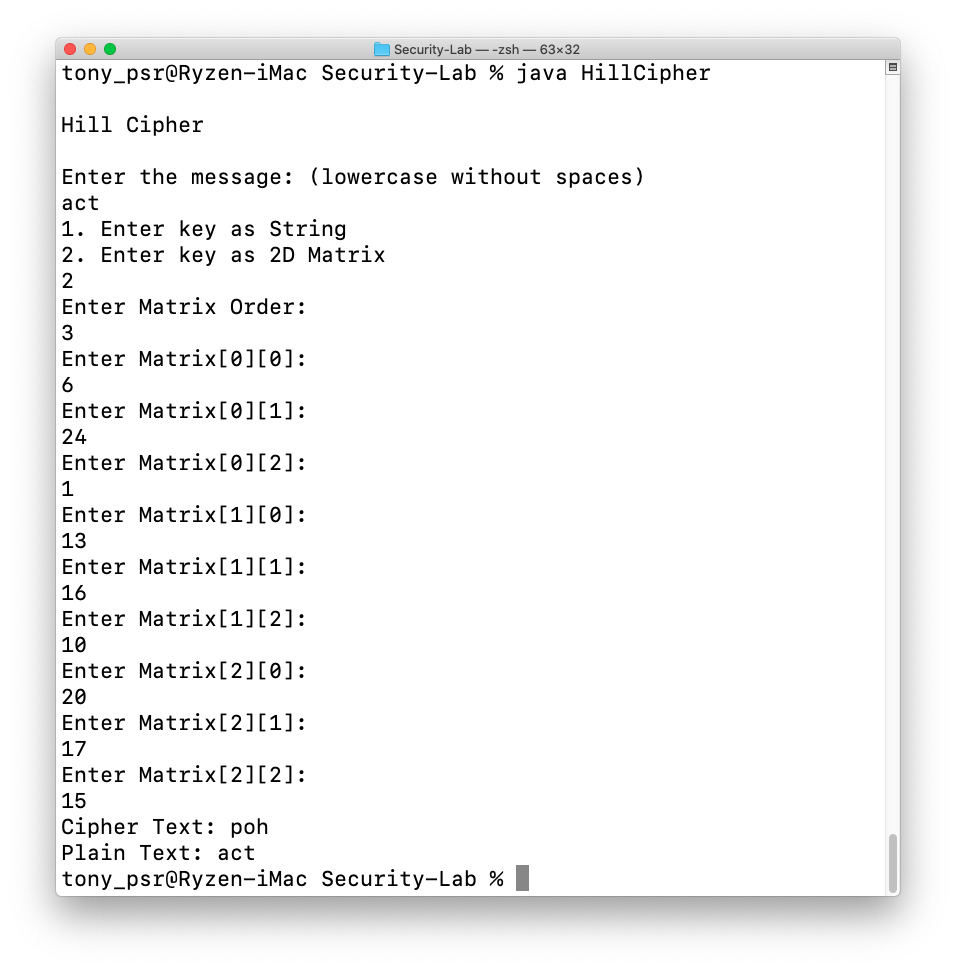
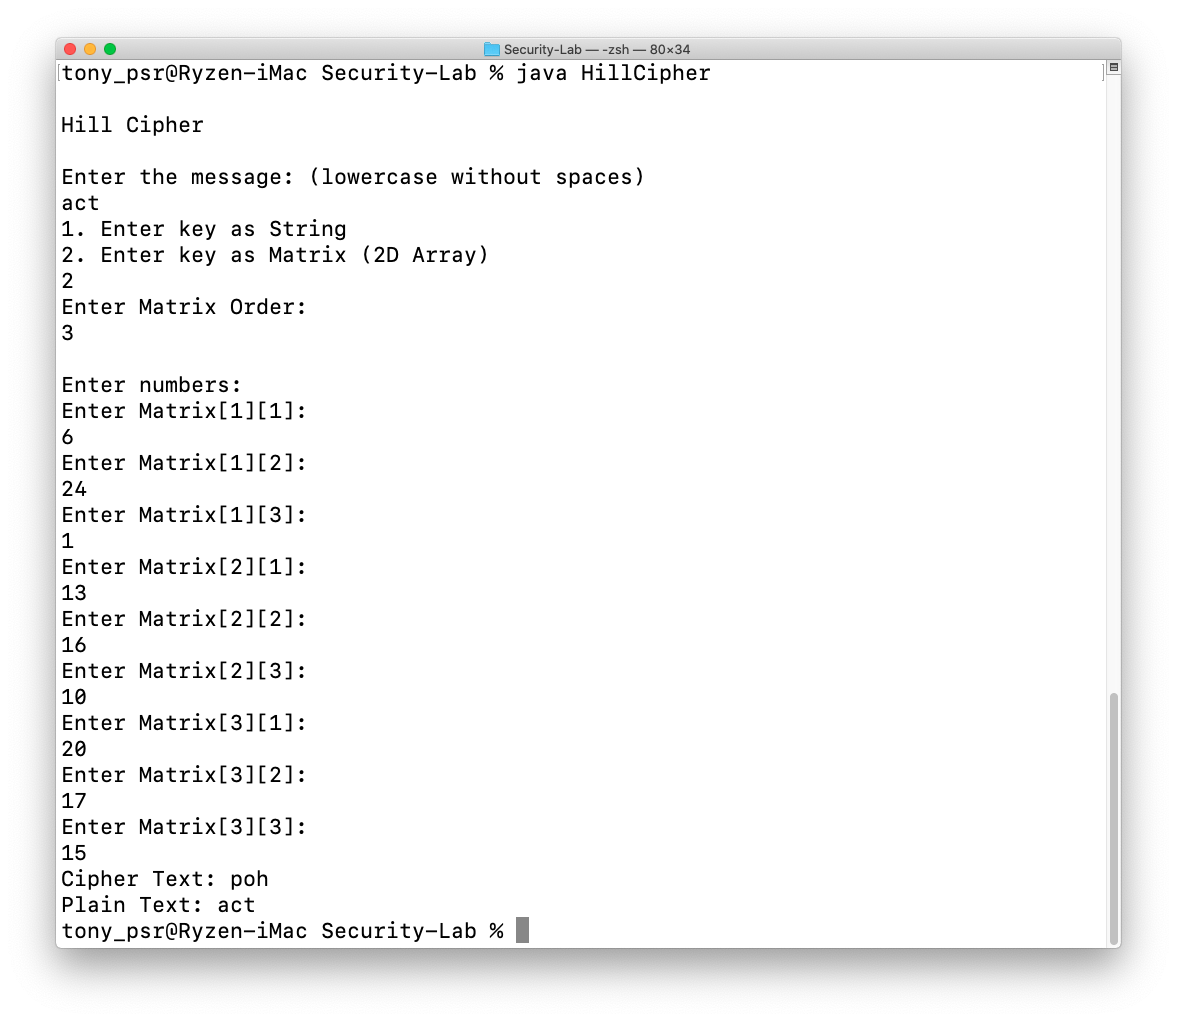
Updated sample output

Changed region(s): [[0.0303, 0.0309, 0.9707, 0.9278], [0.5764, 0.1546, 0.6674, 0.1856]]

diff --git a/src/com/company/tonypsr/substitution_and_transposition_ciphers/HillCipher.java b/src/com/company/tonypsr/substitution_and_transposition_ciphers/HillCipher.java
@@ -203,7 +203,7 @@ public class HillCipher {
 
         int[][] key = null;
 
-        System.out.println("1. Enter key as String\n2. Enter key as 2D Matrix");
+        System.out.println("1. Enter key as String\n2. Enter key as Matrix (2D Array)");
         int choice = sc.nextInt();
         if (choice == 1) {
             System.out.println("Enter the key: (length: 4, 9, etc...) (a-z)");
@@ -222,9 +222,11 @@ public class HillCipher {
             int order = sc.nextInt();
             key = new int[order][order];
 
+            System.out.println("\nEnter numbers:");
+
             for (int i = 0; i < order; i++) {
                 for (int j = 0; j < order; j++) {
-                    System.out.println("Enter Matrix[" + i + "][" + j + "]: ");
+                    System.out.println("Enter Matrix[" + (i+1) + "][" + (j+1) + "]: ");
                     key[i][j] = sc.nextInt();
                 }
             }
